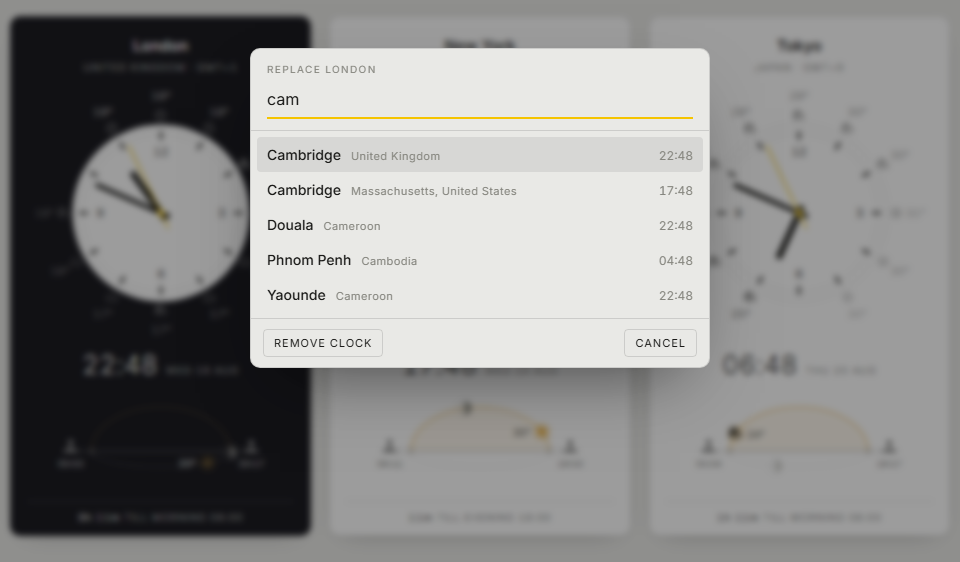
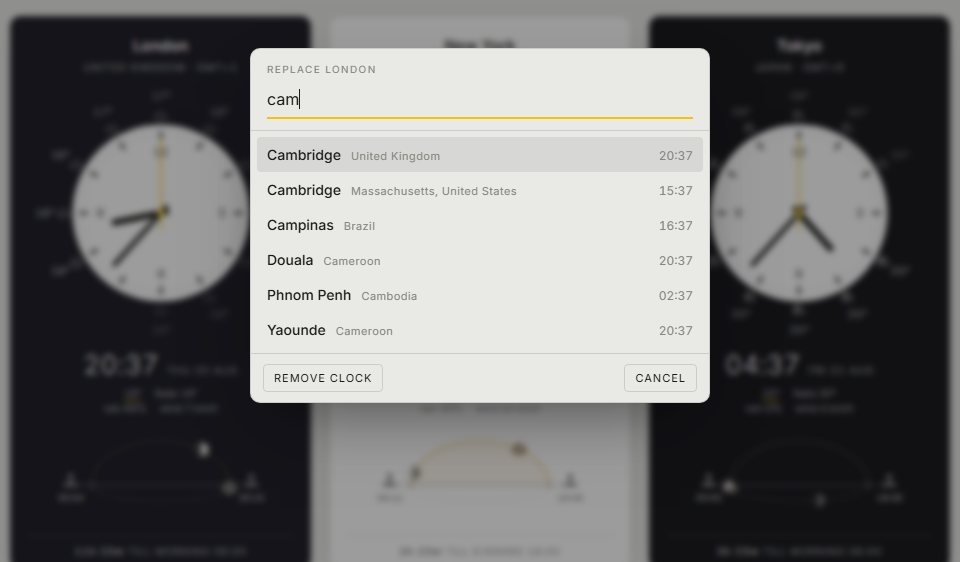
Fill the gaps in the city table, and let a zone be a card
Two additions to the same table.

Sixty-six cities, chosen by checking candidates against what is already there
rather than by guessing. Most of a first list turned out to be present already:
Leipzig, Dresden, Pune, Jaipur, Hangzhou, Chengdu, Recife, Curitiba, Leeds and
Bristol are all long since in. What was actually missing was more of Germany
(Hanover, which prompted this, plus Bremen, Nuremberg, Essen, Dortmund, Bonn,
Mannheim, Karlsruhe, Freiburg, Mainz), more of the north of England and Ireland,
ten more of India, nine more of China, and gaps across Morocco, east Africa,
Mexico, Brazil and the Australian coast. 458 entries to 545.

Nineteen of the new rows are zones rather than cities: GMT, WET, CET, EET, MSK,
GST, IST, CST, JST, KST, SGT, AET, NZT, AKT, HST, and ET, CT, MT and PT for the
United States. Put CET on the board without having to decide that Prague stands
for it. They are ordinary cards, offset and all, and carry a representative point
in the zone so the dome and the sunrise draw something truthful rather than
nothing.

Named for the zone, not for the season. A card labelled PDT would be wrong every
winter, and CET is CEST for half the year, so the card says PT and CET and the
offset beside it does the seasonal work. Both spellings are search aliases, so
typing pdt or cest still finds it. Europe's are the real IANA zones of those
names, which observe the DST they should; the American ones use EST5EDT and its
siblings for the same reason.
[…]

diff --git a/js/cities.js b/js/cities.js
@@ -469,7 +469,105 @@ const CITY_DATA = [
   ["Papeete","French Polynesia","Pacific/Tahiti",-17.54,-149.57,"tahiti"],
   ["Kiritimati","Kiribati","Pacific/Kiritimati",1.87,-157.40,"christmas island earliest"],
   ["Hagatna","Guam","Pacific/Guam",13.47,144.75,""],
-  ["Coordinated Universal Time","UTC","UTC",0,0,"utc gmt zulu"]
+
+  // ---- filling gaps, rather than a second pass over places already listed
+  ["Hanover","Germany","Europe/Berlin",52.37,9.73,"hannover"],
+  ["Bremen","Germany","Europe/Berlin",53.08,8.81,""],
+  ["Nuremberg","Germany","Europe/Berlin",49.45,11.08,"nurnberg nuernberg"],
+  ["Essen","Germany","Europe/Berlin",51.46,7.01,"ruhr"],
+  ["Dortmund","Germany","Europe/Berlin",51.51,7.47,"ruhr"],
+  ["Bonn","Germany","Europe/Berlin",50.73,7.10,""],
+  ["Mannheim","Germany","Europe/Berlin",49.49,8.47,""],
+  ["Karlsruhe","Germany","Europe/Berlin",49.01,8.40,""],
+  ["Freiburg","Germany","Europe/Berlin",47.99,7.85,"freiburg im breisgau"],
+  ["Mainz","Germany","Europe/Berlin",50.00,8.27,""],
+  ["Graz","Austria","Europe/Vienna",47.07,15.44,""],
+  ["Zaragoza","Spain","Europe/Madrid",41.65,-0.89,"saragossa"],
+  ["Braga","Portugal","Europe/Lisbon",41.55,-8.42,""],
+  ["Genoa","Italy","Europe/Rome",44.41,8.93,"genova"],
+  ["Odense","Denmark","Europe/Copenhagen",55.40,10.39,""],
+  ["Kharkiv","Ukraine","Europe/Kyiv",49.99,36.23,"kharkov"],
+  ["Sheffield","United Kingdom","Europe/London",53.38,-1.47,"england"],
+  ["Liverpool","United Kingdom","Europe/London",53.41,-2.98,"england"],
+  ["Newcastle","United Kingdom","Europe/London",54.98,-1.61,"newcastle upon tyne england"],
+  ["Nottingham","United Kingdom","Europe/London",52.95,-1.15,"england"],
+  ["Aberdeen","United Kingdom","Europe/London",57.15,-2.09,"scotland"],
+  ["Galway","Ireland","Europe/Dublin",53.27,-9.05,""],
+  ["Limerick","Ireland","Europe/Dublin",52.66,-8.63,""],
+  ["Surat","India","Asia/Kolkata",21.17,72.83,""],
+  ["Kanpur","India","Asia/Kolkata",26.45,80.33,""],
+  ["Nagpur","India","Asia/Kolkata",21.15,79.09,""],
+  ["Indore","India","Asia/Kolkata",22.72,75.86,""],
+  ["Bhopal","India","Asia/Kolkata",23.26,77.41,""],
+  ["Patna","India","Asia/Kolkata",25.59,85.14,""],
+  ["Visakhapatnam","India","Asia/Kolkata",17.69,83.22,"vizag"],
+  ["Coimbatore","India","Asia/Kolkata",11.02,76.96,""],
+  ["Mysuru","India","Asia/Kolkata",12.30,76.64,"mysore"],
+  ["Thiruvananthapuram","India","Asia/Kolkata",8.52,76.94,"trivandrum"],
+  ["Dalian","China","Asia/Shanghai",38.91,121.61,""],
+  ["Shenyang","China","Asia/Shanghai",41.81,123.43,""],
+  ["Harbin","China","Asia/Shanghai",45.80,126.53,""],
+  ["Jinan","China","Asia/Shanghai",36.65,117.12,""],
+  ["Zhengzhou","China","Asia/Shanghai",34.75,113.63,""],
+  ["Changsha","China","Asia/Shanghai",28.23,112.94,""],
+  ["Fuzhou","China","Asia/Shanghai",26.07,119.30,""],
+  ["Ningbo","China","Asia/Shanghai",29.87,121.55,""],
+  ["Wuxi","China","Asia/Shanghai",31.49,120.31,""],
+  ["Hiroshima","Japan","Asia/Tokyo",34.39,132.46,""],
+  ["Chiang Mai","Thailand","Asia/Bangkok",18.79,98.99,""],
+  ["Da Nang","Vietnam","Asia/Ho_Chi_Minh",16.05,108.20,"danang"],
+  ["Hue","Vietnam","Asia/Ho_Chi_Minh",16.46,107.59,""],
+  ["Kumasi","Ghana","Africa/Accra",6.69,-1.62,""],
+  ["Kisumu","Kenya","Africa/Nairobi",-0.09,34.77,""],
+  ["Dar es Salaam","Tanzania","Africa/Dar_es_Salaam",-6.79,39.21,""],
+  ["Port Louis","Mauritius","Indian/Mauritius",-20.16,57.50,""],
+  ["Oran","Algeria","Africa/Algiers",35.70,-0.63,""],
+  ["Fez","Morocco","Africa/Casablanca",34.03,-5.00,"fes"],
+  ["Marrakech","Morocco","Africa/Casablanca",31.63,-7.99,"marrakesh"],
+  ["Tulsa","United States","America/Chicago",36.15,-95.99,"","Oklahoma"],
+  ["Wichita","United States","America/Chicago",37.69,-97.34,"","Kansas"],
+  ["Regina","Canada","America/Regina",50.45,-104.62,"","Saskatchewan"],
+  ["Quebec City","Canada","America/Toronto",46.81,-71.21,"québec","Quebec"],
+  ["Tijuana","Mexico","America/Tijuana",32.51,-117.04,"","Baja California"],
+  ["Merida","Mexico","America/Merida",20.97,-89.62,"mérida","Yucatan"],
+  ["Cancun","Mexico","America/Cancun",21.16,-86.85,"cancún","Quintana Roo"],
+  ["Goiania","Brazil","America/Sao_Paulo",-16.69,-49.26,"goiânia"],
+  ["Campinas","Brazil","America/Sao_Paulo",-22.91,-47.06,""],
+  ["Vitoria","Brazil","America/Sao_Paulo",-20.32,-40.34,"vitória"],
+  ["Florianopolis","Brazil","America/Sao_Paulo",-27.60,-48.55,"florianópolis"],
+  ["Natal","Brazil","America/Fortaleza",-5.79,-35.21,""],
+  ["Newcastle","Australia","Australia/Sydney",-32.93,151.78,"","New South Wales"],
+  ["Geelong","Australia","Australia/Melbourne",-38.15,144.36,"","Victoria"],
+  ["Tauranga","New Zealand","Pacific/Auckland",-37.69,176.17,""],
+  ["Coordinated Universal Time","UTC","UTC",0,0,"utc gmt zulu"],
+
+  /* Zones you can put on the board without picking a city, for when the question
+     is "what time is it in CET" rather than "what time is it in Prague". The
+     coordinates are a representative point in the zone, so the dome and the
+     sunrise still draw something truthful rather than nothing.
+
+     Named for the zone rather than for the season: a card labelled PDT would be
+     wrong every winter, and CET is CEST for half the year. Both seasonal forms
+     are search aliases, so typing either finds the card. */
+  ["GMT","Greenwich Mean Time","GMT",51.48,0.00,"gmt greenwich zone utc"],
+  ["WET","Western European Time","WET",38.72,-9.14,"wet west western europe zone"],
+  ["CET","Central European Time","CET",50.08,14.44,"cet cest central europe zone"],
+  ["EET","Eastern European Time","EET",37.98,23.73,"eet eest eastern europe zone"],
+  ["MSK","Moscow Time","Europe/Moscow",55.76,37.62,"msk moscow russia zone"],
+  ["GST","Gulf Standard Time","Asia/Dubai",25.20,55.27,"gst gulf zone"],
+  ["IST","India Standard Time","Asia/Kolkata",22.57,88.36,"ist india zone"],
+  ["CST","China Standard Time","Asia/Shanghai",31.23,121.47,"cst china zone"],
+  ["JST","Japan Standard Time","Asia/Tokyo",35.68,139.69,"jst japan zone"],
+  ["KST","Korea Standard Time","Asia/Seoul",37.57,126.98,"kst korea zone"],
+  ["SGT","Singapore Time","Asia/Singapore",1.35,103.82,"sgt singapore zone"],
+  ["AET","Australian Eastern Time","Australia/Sydney",-33.87,151.21,"aet aest aedt australia zone"],
+  ["NZT","New Zealand Time","Pacific/Auckland",-36.85,174.76,"nzt nzst nzdt new zealand zone"],
+  ["ET","Eastern Time","EST5EDT",40.71,-74.01,"et est edt eastern us zone"],
+  ["CT","Central Time","CST6CDT",41.88,-87.63,"ct cst cdt central us zone"],
+  ["MT","Mountain Time","MST7MDT",39.74,-104.99,"mt mst mdt mountain us zone"],
+  ["PT","Pacific Time","PST8PDT",37.77,-122.42,"pt pst pdt pacific us zone"],
+  ["AKT","Alaska Time","America/Anchorage",61.22,-149.90,"akt akst akdt alaska zone"],
+  ["HST","Hawaii Time","Pacific/Honolulu",21.31,-157.86,"hst hawaii zone"]
 ];
 
 const slug = s => s.toLowerCase().replace(/['’]/g, "").replace(/[^a-z0-9]+/g, "-").replace(/^-|-$/g, "");

diff --git a/README.md b/README.md
@@ -64,9 +64,10 @@ Cruz, an hour and a half before their morning, and 22:30 in Tokyo.
 
 ![Converting a time across every city](docs/convert.png)
 
-Clicking a city name opens a search over all 458 cities, each row showing its current
+Clicking a city name opens a search over all 545 entries, each row showing its current
 local time. Same-name cities are distinguished by region, which is why `Cambridge`
-appears twice below.
+appears twice below, and why there is a Newcastle in England and another in New South
+Wales.
 
 ![Searching for a city](docs/city-picker.png)
 
@@ -151,6 +152,18 @@ order is saved and written back to the URL. This uses HTML5 drag-and-drop, so it
 mouse and trackpad only; touch dragging is not supported.
 
 ![The drop caret during a reorder](docs/drag-caret.png)
+
+Nineteen of those entries are zones rather than cities, for when the question is what
+time it is in CET rather than in Prague. `GMT`, `WET`, `CET`, `EET`, `MSK`, `GST`,
+`IST`, `CST`, `JST`, `KST`, `SGT`, `AET`, `NZT`, `AKT`, `HST`, and `ET`, `CT`, `MT`
+and `PT` for the United States. They behave like any other card, offset and all, and
+carry a representative point in the zone so the dome and the sunrise still draw
+something truthful rather than nothing.
+
+They are named for the zone, not for the season. A card labelled `PDT` would be wrong
+every winter, and `CET` is CEST for half the year, so the card says `PT` and `CET` and
+the offset beside it does the seasonal work. Both seasonal spellings are search
+aliases, so typing `pdt` or `cest` finds the right card.
 
 Where a state or province is the more useful label the card shows that instead of the
 country (`Santa Cruz / California`, `Cambridge / Massachusetts`). Same-name cities get

diff --git a/CLAUDE.md b/CLAUDE.md
@@ -85,6 +85,11 @@ Traps, all of which have already cost time here:
   weather in a screenshot. To make weather deterministic, keep `worldclock.wx.*` in
   localStorage and run the same page twice against one `--user-data-dir`, so the second
   run paints from the warm cache.
+- **A stale service worker will serve you the previous build.** Probes stage a copy of
+  the tree and serve it; reuse the same port and `--user-data-dir` and the worker
+  registered by the last run answers from its cache, so edits appear not to have
+  landed. It cost an hour once: newly added cities resolved to the wrong cards and
+  the table looked broken when it was fine. Use a fresh port and profile per run.
 - Forecast rows exist from today onwards only. Freezing the board into the past correctly
   shows no conditions and no temperature. That is not a bug.
 
